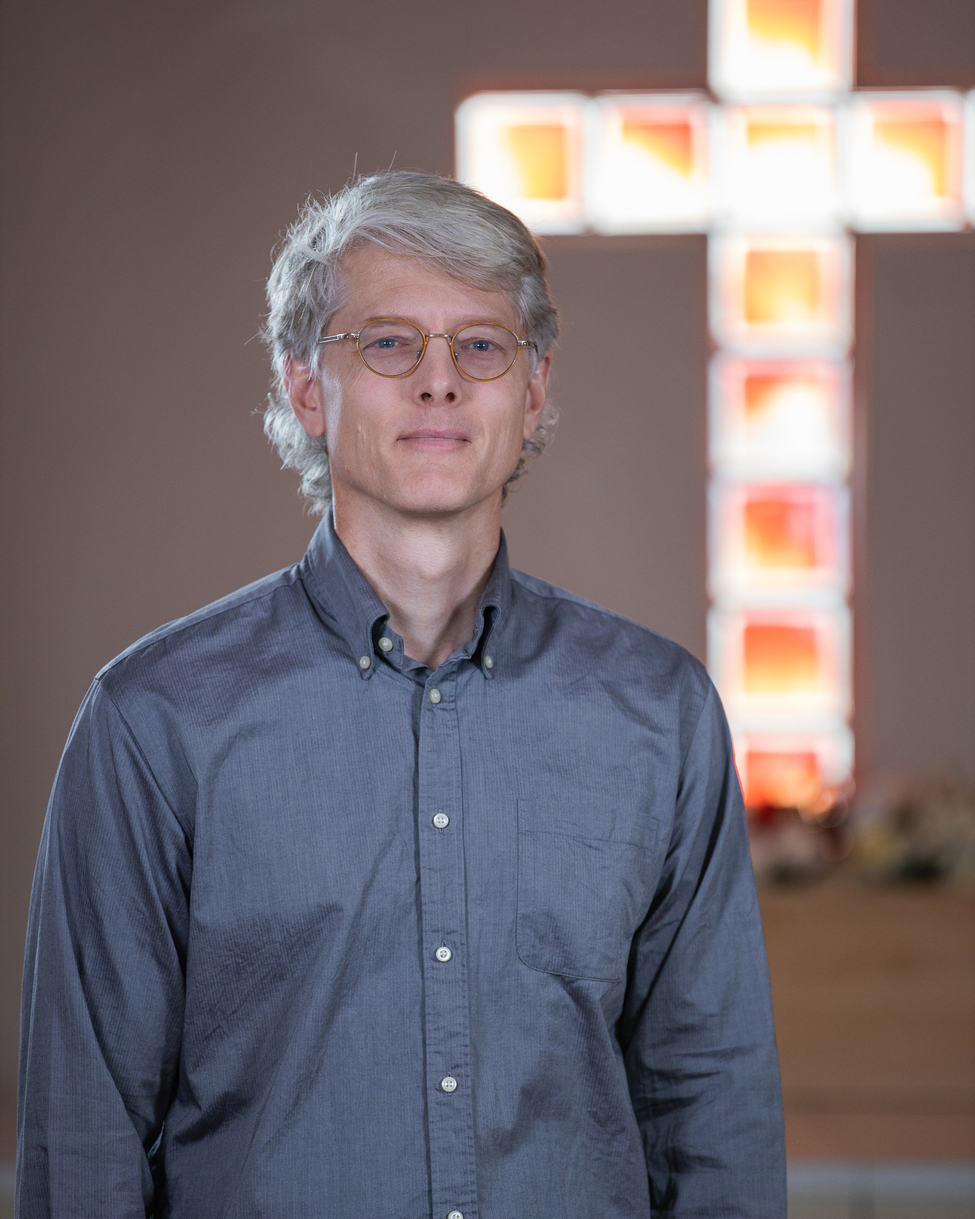
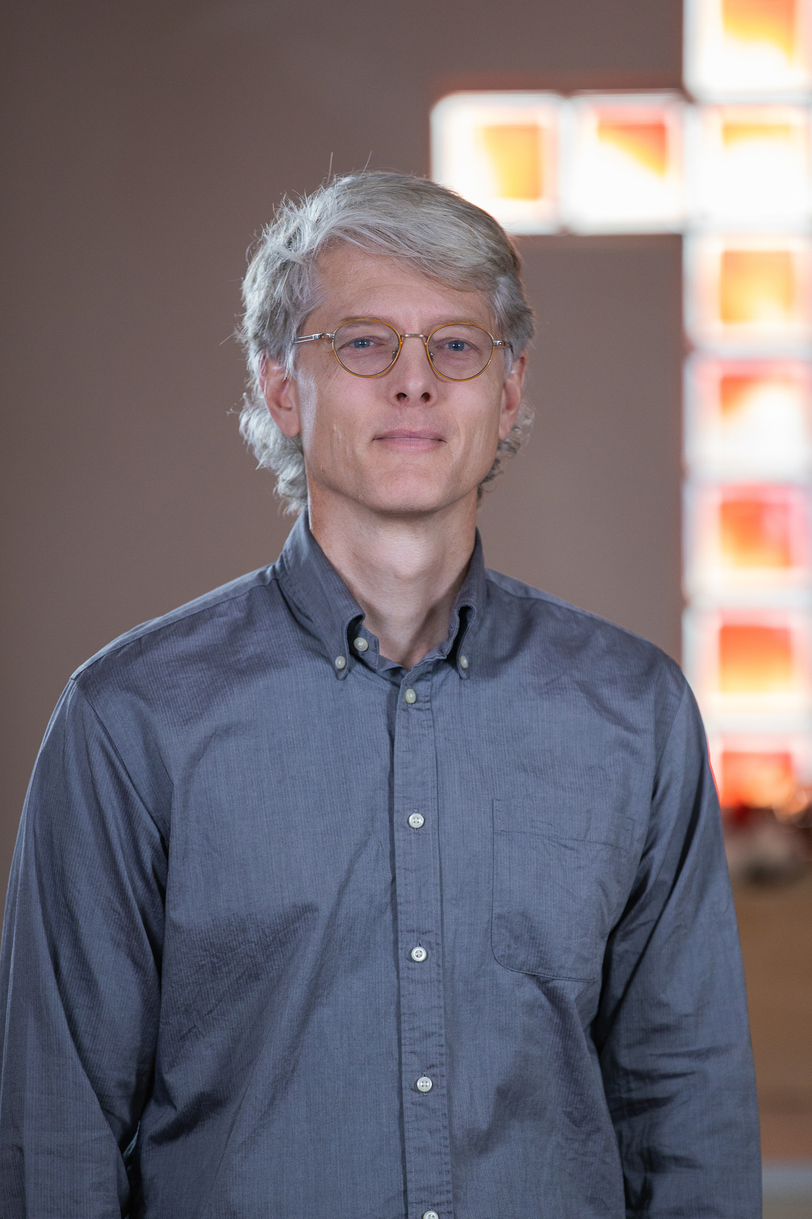
Update leaders images

diff --git a/ja/leadership.html b/ja/leadership.html
@@ -241,7 +241,7 @@
     <div class="card" >
       <img
         class="card-img-top"
-        src="assets/img/user-profile-ico-avatar.jpeg"
+        src="assets/img/mukai-tcc.jpg"
         alt="Noriko"
       />
       <div class="card-body d-flex flex-column">
@@ -266,7 +266,7 @@
     <div class="card" >
       <img
         class="card-img-top"
-        src="assets/img/stella1.png"
+        src="assets/img/stella-tcc.jpg"
         alt="Stella"
       />
       <div class="card-body d-flex flex-column">

diff --git a/leadership.html b/leadership.html
@@ -241,7 +241,7 @@
     <div class="card" >
       <img
         class="card-img-top"
-        src="assets/img/user-profile-ico-avatar.jpeg"
+        src="assets/img/mukai-tcc.jpg"
         alt="Noriko"
       />
       <div class="card-body d-flex flex-column">
@@ -266,7 +266,7 @@
     <div class="card" >
       <img
         class="card-img-top"
-        src="assets/img/stella1.png"
+        src="assets/img/stella-tcc.jpg"
         alt="Stella"
       />
       <div class="card-body d-flex flex-column">
